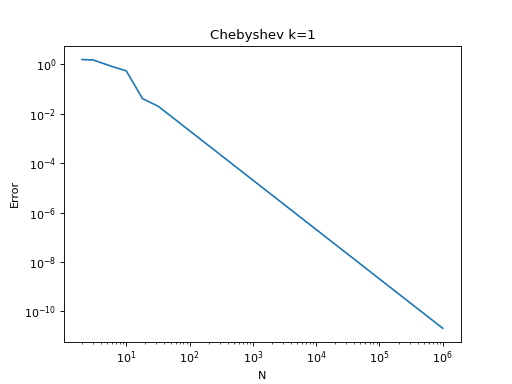
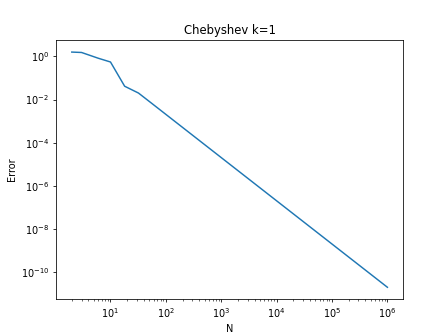
Deploying to master from  @ 52d233e85b1d1a37b202adf36578f4b7b512b89c 🚀

diff --git a/FunctionIntegrator/index.html b/FunctionIntegrator/index.html
@@ -189,7 +189,6 @@ trapezoidal_error        = zeros(length(nc));
     trapezoidal_error[i]        = abs(trapezoidal_rule(x -&gt; sech(x), nc[i], <span class=hljs-number >0</span>, <span class=hljs-number >100</span>)-<span class=hljs-literal >pi</span>/<span class=hljs-number >2</span>);
 <span class=hljs-keyword >end</span>
 
-pygui(<span class=hljs-literal >false</span>)
 PyPlot.figure(<span class=hljs-number >1</span>)
 PyPlot.clf()
 PyPlot.plot(nc, chebyshev1_error);
@@ -198,7 +197,7 @@ xscale(<span class=hljs-string >&quot;log&quot;</span>)
 xlabel(<span class=hljs-string >&quot;N&quot;</span>)
 yscale(<span class=hljs-string >&quot;log&quot;</span>)
 ylabel(<span class=hljs-string >&quot;Error&quot;</span>)
-PyPlot.savefig(joinpath(<span class=hljs-meta >@OUTPUT</span>, <span class=hljs-string >&quot;chebyshev1_error_plot.png&quot;</span>), dpi=<span class=hljs-number >80</span>)
+PyPlot.savefig(joinpath(<span class=hljs-meta >@OUTPUT</span>, <span class=hljs-string >&quot;chebyshev1_error_plot.png&quot;</span>), dpi=<span class=hljs-number >70</span>)
 PyPlot.figure(<span class=hljs-number >2</span>)
 PyPlot.clf()
 PyPlot.plot(nc, chebyshev2_error); 
@@ -207,7 +206,7 @@ xscale(<span class=hljs-string >&quot;log&quot;</span>)
 xlabel(<span class=hljs-string >&quot;N&quot;</span>)
 yscale(<span class=hljs-string >&quot;log&quot;</span>)
 ylabel(<span class=hljs-string >&quot;Error&quot;</span>)
-PyPlot.savefig(joinpath(<span class=hljs-meta >@OUTPUT</span>, <span class=hljs-string >&quot;chebyshev2_error_plot.png&quot;</span>), dpi=<span class=hljs-number >80</span>)
+PyPlot.savefig(joinpath(<span class=hljs-meta >@OUTPUT</span>, <span class=hljs-string >&quot;chebyshev2_error_plot.png&quot;</span>), dpi=<span class=hljs-number >70</span>)
 PyPlot.figure(<span class=hljs-number >3</span>)
 PyPlot.clf()
 PyPlot.plot(nc, chebyshev3_error); 
@@ -216,7 +215,7 @@ xscale(<span class=hljs-string >&quot;log&quot;</span>)
 xlabel(<span class=hljs-string >&quot;N&quot;</span>)
 yscale(<span class=hljs-string >&quot;log&quot;</span>)
 ylabel(<span class=hljs-string >&quot;Error&quot;</span>)
-PyPlot.savefig(joinpath(<span class=hljs-meta >@OUTPUT</span>, <span class=hljs-string >&quot;chebyshev3_error_plot.png&quot;</span>), dpi=<span class=hljs-number >80</span>)
+PyPlot.savefig(joinpath(<span class=hljs-meta >@OUTPUT</span>, <span class=hljs-string >&quot;chebyshev3_error_plot.png&quot;</span>), dpi=<span class=hljs-number >70</span>)
 PyPlot.figure(<span class=hljs-number >4</span>)
 PyPlot.clf()
 PyPlot.plot(nc, chebyshev4_error)
@@ -225,7 +224,7 @@ xscale(<span class=hljs-string >&quot;log&quot;</span>)
 xlabel(<span class=hljs-string >&quot;N&quot;</span>)
 yscale(<span class=hljs-string >&quot;log&quot;</span>)
 ylabel(<span class=hljs-string >&quot;Error&quot;</span>)
-PyPlot.savefig(joinpath(<span class=hljs-meta >@OUTPUT</span>, <span class=hljs-string >&quot;chebyshev4_error_plot.png&quot;</span>), dpi=<span class=hljs-number >80</span>)
+PyPlot.savefig(joinpath(<span class=hljs-meta >@OUTPUT</span>, <span class=hljs-string >&quot;chebyshev4_error_plot.png&quot;</span>), dpi=<span class=hljs-number >70</span>)
 PyPlot.figure(<span class=hljs-number >5</span>)
 PyPlot.clf()
 PyPlot.plot(nc, jacobi_error)
@@ -234,7 +233,7 @@ xscale(<span class=hljs-string >&quot;log&quot;</span>)
 xlabel(<span class=hljs-string >&quot;N&quot;</span>)
 yscale(<span class=hljs-string >&quot;log&quot;</span>)
 ylabel(<span class=hljs-string >&quot;Error&quot;</span>)
-PyPlot.savefig(joinpath(<span class=hljs-meta >@OUTPUT</span>, <span class=hljs-string >&quot;jacobi_error_plot.png&quot;</span>), dpi=<span class=hljs-number >80</span>)
+PyPlot.savefig(joinpath(<span class=hljs-meta >@OUTPUT</span>, <span class=hljs-string >&quot;jacobi_error_plot.png&quot;</span>), dpi=<span class=hljs-number >70</span>)
 PyPlot.figure(<span class=hljs-number >6</span>)
 PyPlot.clf()
 PyPlot.plot(nc, laguerre_error)
@@ -243,7 +242,7 @@ xscale(<span class=hljs-string >&quot;log&quot;</span>)
 xlabel(<span class=hljs-string >&quot;N&quot;</span>)
 yscale(<span class=hljs-string >&quot;log&quot;</span>)
 ylabel(<span class=hljs-string >&quot;Error&quot;</span>)
-PyPlot.savefig(joinpath(<span class=hljs-meta >@OUTPUT</span>, <span class=hljs-string >&quot;laguerre_error_plot.png&quot;</span>), dpi=<span class=hljs-number >80</span>)
+PyPlot.savefig(joinpath(<span class=hljs-meta >@OUTPUT</span>, <span class=hljs-string >&quot;laguerre_error_plot.png&quot;</span>), dpi=<span class=hljs-number >70</span>)
 PyPlot.figure(<span class=hljs-number >7</span>)
 PyPlot.clf()
 PyPlot.plot(nc, legendre_error)
@@ -252,7 +251,7 @@ xscale(<span class=hljs-string >&quot;log&quot;</span>)
 xlabel(<span class=hljs-string >&quot;N&quot;</span>)
 yscale(<span class=hljs-string >&quot;log&quot;</span>)
 ylabel(<span class=hljs-string >&quot;Error&quot;</span>)
-PyPlot.savefig(joinpath(<span class=hljs-meta >@OUTPUT</span>, <span class=hljs-string >&quot;legendre_error_plot.png&quot;</span>), dpi=<span class=hljs-number >80</span>)
+PyPlot.savefig(joinpath(<span class=hljs-meta >@OUTPUT</span>, <span class=hljs-string >&quot;legendre_error_plot.png&quot;</span>), dpi=<span class=hljs-number >70</span>)
 PyPlot.figure(<span class=hljs-number >8</span>)
 PyPlot.clf()
 PyPlot.plot(nc, lobatto_error)
@@ -261,7 +260,7 @@ xscale(<span class=hljs-string >&quot;log&quot;</span>)
 xlabel(<span class=hljs-string >&quot;N&quot;</span>)
 yscale(<span class=hljs-string >&quot;log&quot;</span>)
 ylabel(<span class=hljs-string >&quot;Error&quot;</span>)
-PyPlot.savefig(joinpath(<span class=hljs-meta >@OUTPUT</span>, <span class=hljs-string >&quot;lobatto_error_plot.png&quot;</span>), dpi=<span class=hljs-number >80</span>)
+PyPlot.savefig(joinpath(<span class=hljs-meta >@OUTPUT</span>, <span class=hljs-string >&quot;lobatto_error_plot.png&quot;</span>), dpi=<span class=hljs-number >70</span>)
 PyPlot.figure(<span class=hljs-number >9</span>)
 PyPlot.clf()
 PyPlot.plot(nc, radau_error)
@@ -270,7 +269,7 @@ xscale(<span class=hljs-string >&quot;log&quot;</span>)
 xlabel(<span class=hljs-string >&quot;N&quot;</span>)
 yscale(<span class=hljs-string >&quot;log&quot;</span>)
 ylabel(<span class=hljs-string >&quot;Error&quot;</span>)
-PyPlot.savefig(joinpath(<span class=hljs-meta >@OUTPUT</span>, <span class=hljs-string >&quot;radau_error_plot.png&quot;</span>), dpi=<span class=hljs-number >80</span>)
+PyPlot.savefig(joinpath(<span class=hljs-meta >@OUTPUT</span>, <span class=hljs-string >&quot;radau_error_plot.png&quot;</span>), dpi=<span class=hljs-number >70</span>)
 PyPlot.figure(<span class=hljs-number >10</span>)
 PyPlot.clf()
 PyPlot.plot(nc, rectangle_left_error)
@@ -279,7 +278,7 @@ xscale(<span class=hljs-string >&quot;log&quot;</span>)
 xlabel(<span class=hljs-string >&quot;N&quot;</span>)
 yscale(<span class=hljs-string >&quot;log&quot;</span>)
 ylabel(<span class=hljs-string >&quot;Error&quot;</span>)
-PyPlot.savefig(joinpath(<span class=hljs-meta >@OUTPUT</span>, <span class=hljs-string >&quot;rectangle_left_error_plot.png&quot;</span>), dpi=<span class=hljs-number >80</span>)
+PyPlot.savefig(joinpath(<span class=hljs-meta >@OUTPUT</span>, <span class=hljs-string >&quot;rectangle_left_error_plot.png&quot;</span>), dpi=<span class=hljs-number >70</span>)
 PyPlot.figure(<span class=hljs-number >11</span>)
 PyPlot.clf()
 PyPlot.plot(nc, rectangle_midpoint_error)
@@ -288,7 +287,7 @@ xscale(<span class=hljs-string >&quot;log&quot;</span>)
 xlabel(<span class=hljs-string >&quot;N&quot;</span>)
 yscale(<span class=hljs-string >&quot;log&quot;</span>)
 ylabel(<span class=hljs-string >&quot;Error&quot;</span>)
-PyPlot.savefig(joinpath(<span class=hljs-meta >@OUTPUT</span>, <span class=hljs-string >&quot;rectangle_midpoint_error_plot.png&quot;</span>), dpi=<span class=hljs-number >80</span>)
+PyPlot.savefig(joinpath(<span class=hljs-meta >@OUTPUT</span>, <span class=hljs-string >&quot;rectangle_midpoint_error_plot.png&quot;</span>), dpi=<span class=hljs-number >70</span>)
 PyPlot.figure(<span class=hljs-number >12</span>)
 PyPlot.clf()
 PyPlot.plot(nc, rectangle_right_error)
@@ -297,7 +296,7 @@ xscale(<span class=hljs-string >&quot;log&quot;</span>)
 xlabel(<span class=hljs-string >&quot;N&quot;</span>)
 yscale(<span class=hljs-string >&quot;log&quot;</span>)
 ylabel(<span class=hljs-string >&quot;Error&quot;</span>)
-PyPlot.savefig(joinpath(<span class=hljs-meta >@OUTPUT</span>, <span class=hljs-string >&quot;rectangle_right_error_plot.png&quot;</span>), dpi=<span class=hljs-number >80</span>)
+PyPlot.savefig(joinpath(<span class=hljs-meta >@OUTPUT</span>, <span class=hljs-string >&quot;rectangle_right_error_plot.png&quot;</span>), dpi=<span class=hljs-number >70</span>)
 PyPlot.figure(<span class=hljs-number >13</span>)
 PyPlot.clf()
 PyPlot.plot(nc, simpsons_error)
@@ -306,7 +305,7 @@ xscale(<span class=hljs-string >&quot;log&quot;</span>)
 xlabel(<span class=hljs-string >&quot;N&quot;</span>)
 yscale(<span class=hljs-string >&quot;log&quot;</span>)
 ylabel(<span class=hljs-string >&quot;Error&quot;</span>)
-PyPlot.savefig(joinpath(<span class=hljs-meta >@OUTPUT</span>, <span class=hljs-string >&quot;simpsons_error_plot.png&quot;</span>), dpi=<span class=hljs-number >80</span>)
+PyPlot.savefig(joinpath(<span class=hljs-meta >@OUTPUT</span>, <span class=hljs-string >&quot;simpsons_error_plot.png&quot;</span>), dpi=<span class=hljs-number >70</span>)
 PyPlot.figure(<span class=hljs-number >14</span>)
 PyPlot.clf()
 PyPlot.plot(nc, trapezoidal_error)
@@ -315,12 +314,12 @@ xscale(<span class=hljs-string >&quot;log&quot;</span>)
 xlabel(<span class=hljs-string >&quot;N&quot;</span>)
 yscale(<span class=hljs-string >&quot;log&quot;</span>)
 ylabel(<span class=hljs-string >&quot;Error&quot;</span>)
-PyPlot.savefig(joinpath(<span class=hljs-meta >@OUTPUT</span>, <span class=hljs-string >&quot;trapezoidal_error_plot.png&quot;</span>), dpi=<span class=hljs-number >80</span>)</code></pre>
+PyPlot.savefig(joinpath(<span class=hljs-meta >@OUTPUT</span>, <span class=hljs-string >&quot;trapezoidal_error_plot.png&quot;</span>), dpi=<span class=hljs-number >70</span>)</code></pre>
 <h3 id=plots ><a href="#plots">Plots</a></h3>  <img src="/assets/FunctionIntegrator/code/output/chebyshev1_error_plot.png" alt=""> <img src="/assets/FunctionIntegrator/code/output/chebyshev2_error_plot.png" alt=""> <img src="/assets/FunctionIntegrator/code/output/chebyshev3_error_plot.png" alt=""> <img src="/assets/FunctionIntegrator/code/output/chebyshev4_error_plot.png" alt=""> <img src="/assets/FunctionIntegrator/code/output/jacobi_error_plot.png" alt=""> <img src="/assets/FunctionIntegrator/code/output/laguerre_error_plot.png" alt=""> <img src="/assets/FunctionIntegrator/code/output/legendre_error_plot.png" alt=""> <img src="/assets/FunctionIntegrator/code/output/lobatto_error_plot.png" alt=""> <img src="/assets/FunctionIntegrator/code/output/radau_error_plot.png" alt=""> <img src="/assets/FunctionIntegrator/code/output/rectangle_left_error_plot.png" alt=""> <img src="/assets/FunctionIntegrator/code/output/rectangle_midpoint_error_plot.png" alt=""> <img src="/assets/FunctionIntegrator/code/output/rectangle_right_error_plot.png" alt=""> <img src="/assets/FunctionIntegrator/code/output/simpsons_error_plot.png" alt=""> <img src="/assets/FunctionIntegrator/code/output/trapezoidal_error_plot.png" alt="">
 <h2 id=acknowledgements ><a href="#acknowledgements">Acknowledgements</a></h2>  I would like to thank the Julia discourse community for their help through my Julia journey, and I would also like to thank the developers of Julia, as without their work this package would not even be possible &#40;I know, obviously, as this is a Julia package&#41;. Likewise, I would also like to thank the developers of <a href="https://github.com/JuliaApproximation/FastGaussQuadrature.jl">FastGaussQuadrature.jl</a>, as without their efficient algorithms for finding the nodes and weights for various Gaussian quadrature techniques, several of the functions in this repository would be far less efficient &#40;especially <code>legendre_quadrature</code>&#41;, or may not even exist. I would also like to thank the developers of <a href="https://github.com/JuliaMath/SpecialFunctions.jl">SpecialFunctions.jl</a>, as some of their functions are useful for testing the functions in this package.</p>
 <div class=page-foot >
   <div class=copyright >
-    &copy; Brenton Horne. Last modified: July 01, 2020. Website built with <a href="https://github.com/tlienart/Franklin.jl">Franklin.jl</a>.
+    &copy; Brenton Horne. Last modified: July 02, 2020. Website built with <a href="https://github.com/tlienart/Franklin.jl">Franklin.jl</a>.
   </div>
 </div>
 </div>

diff --git a/index.html b/index.html
@@ -1,1 +1,1 @@
-<!doctype html> <html lang=en > <meta charset=UTF-8 > <meta name=viewport  content="width=device-width, initial-scale=1"> <link rel=stylesheet  href="/css/franklin.css"> <link rel=stylesheet  href="/css/pure.css"> <!--<link rel=stylesheet  href="/css/side-menu.css">--> <!--The width specified in frankin content under @media determines how wide the website is--> <style> .franklin-content{padding:0px;} @media (min-width: 940px) { .franklin-content {width: 100%; margin: 0px; padding-left: 1px} .header {width: 900px;} } </style> <link rel=icon  href="/assets/favicon.png"> <title>Nothing here yet</title> <div id=layout > <div id=main > <div class=header > <h1>Nothing here yet</h1> </div> <div class=franklin-content ><p>The most interesting page on this website at the moment is likely at <a href="/FunctionIntegrator">FunctionIntegrator</a>.</p> <div class=page-foot > <div class=copyright > &copy; Brenton Horne. Last modified: July 01, 2020. Website built with <a href="https://github.com/tlienart/Franklin.jl">Franklin.jl</a>. </div> </div> </div> </div> </div> <script src="/libs/pure/ui.min.js"></script>
+<!doctype html> <html lang=en > <meta charset=UTF-8 > <meta name=viewport  content="width=device-width, initial-scale=1"> <link rel=stylesheet  href="/css/franklin.css"> <link rel=stylesheet  href="/css/pure.css"> <!--<link rel=stylesheet  href="/css/side-menu.css">--> <!--The width specified in frankin content under @media determines how wide the website is--> <style> .franklin-content{padding:0px;} @media (min-width: 940px) { .franklin-content {width: 100%; margin: 0px; padding-left: 1px} .header {width: 900px;} } </style> <link rel=icon  href="/assets/favicon.png"> <title>Nothing here yet</title> <div id=layout > <div id=main > <div class=header > <h1>Nothing here yet</h1> </div> <div class=franklin-content ><p>The most interesting page on this website at the moment is likely at <a href="/FunctionIntegrator">FunctionIntegrator</a>.</p> <div class=page-foot > <div class=copyright > &copy; Brenton Horne. Last modified: July 02, 2020. Website built with <a href="https://github.com/tlienart/Franklin.jl">Franklin.jl</a>. </div> </div> </div> </div> </div> <script src="/libs/pure/ui.min.js"></script>
